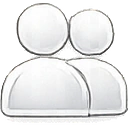
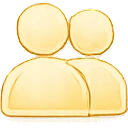
v2.9.2: bestaande potjes krijgen hun XP terug, en de balk wordt goud
De XP stond bij niemand in de historie, want hij wordt pas sinds v2.8.0 bewaard
en alle oudere potjes hadden nul. Die is exact terug te rekenen: de formule leest
alleen dingen die in de rij zelf staan, namelijk punten plus 40 als je won plus
15 voor het spelen. Elk potje levert dus minstens 15 op, en xp = 0 betekent
daarom "nooit ingevuld" en niet "niets verdiend"; die migratie loopt dus geen
tweede keer over dezelfde rij.

De MUNTEN blijven leeg voor oude potjes. Die volgen uit de levels die je met een
potje haalde en daar zit missie-XP in verwerkt, en wanneer die binnenkwam is niet
meer te achterhalen. Een gokje zou op de verkeerde rij landen, en een verkeerd
getal is erger dan geen getal.

De onderbalk: de winkel is weer een wagentje. In het vel zit er geen, dus dat is
de getekende versie, en die staat in DEZELFDE gouden reeks als de art. Daardoor
valt het verschil tussen tekening en art niet op: de kleur is wat ze bij elkaar
houdt. De beker en de mensen zijn van parelwit naar dat goud omgezet door hun
luminantie op die reeks te leggen, dus de vorm en het licht van de tekening
blijven staan en alleen het materiaal verandert. Kleur vervangen op TINT zou de
gouden accenten die er al in zaten juist wegpoetsen.

Alles is nu goud, dus de actieve staat is geen kleurwissel meer maar licht: de
rest zakt weg in de schaduw en de gekozen krijgt een halo. Pictogrammen een slag
kleiner.

diff --git a/frontend/src/components/BottomNav.tsx b/frontend/src/components/BottomNav.tsx
@@ -8,6 +8,7 @@
 import { useEffect, useRef, useState } from "react";
 import { Home, ShoppingCart, Trophy, UserRound, Users } from "lucide-react";
 import { Avatar } from "./Avatar";
+import { ShopIcon } from "./NavIcons";
 import type { GameApi } from "../net/socket";
 import { NeonLine } from "./NeonLine";
 import { useT } from "../i18n/i18n";
@@ -87,14 +88,18 @@ export function BottomNav({
     // vak goed zonder de rand te raken; op 0,4 stond het er verloren in. Tot de
     // plaat is gemeten tekenen we nog niets, anders springen ze een frame later.
     const s = Math.round(plateH * 0.5);
-    // De skin krijgt de art uit de UI-map. Het zijn parelwitte pictogrammen met
-    // gouden accenten; de actieve krijgt een gouden gloed en de rest staat
-    // gedempt. Kleur kan niet, want het is art en geen lijntekening, dus het
-    // verschil zit in helderheid en gloed.
+    // De skin krijgt de art uit de UI-map, omgezet naar het goud van de app: de
+    // vorm en het licht van de tekening blijven staan, alleen het materiaal is
+    // anders. Parelwit stond er los bij op een plaat die zelf al goud omrand is.
+    //
+    // Voor de winkel zit er geen wagentje in het vel, dus dat is de getekende
+    // versie. Die staat in dezelfde gouden reeks, en daardoor valt het verschil
+    // tussen tekening en art niet op: de KLEUR is wat ze bij elkaar houdt.
+    const maat = Math.round(s * 1.04);
     const art: Partial<Record<NavKey, (on: boolean) => React.ReactNode>> = {
-      shop: (on) => <NavArt src="/ui/nav/shop.webp" on={on} size={Math.round(s * 1.24)} />,
-      leaderboard: (on) => <NavArt src="/ui/nav/trophy.webp" on={on} size={Math.round(s * 1.24)} />,
-      friends: (on) => <NavArt src="/ui/nav/friends.webp" on={on} size={Math.round(s * 1.24)} />,
+      shop: (on) => <NavGloed on={on} size={maat}><ShopIcon on size={maat} /></NavGloed>,
+      leaderboard: (on) => <NavArt src="/ui/nav/trophy.webp" on={on} size={maat} />,
+      friends: (on) => <NavArt src="/ui/nav/friends.webp" on={on} size={maat} />,
     };
     return (
       <nav
@@ -233,36 +238,48 @@ export function BottomNav({
   );
 }
 
-/** Een pictogram uit de UI-map in de onderbalk.
+/** De gloed onder een gekozen pictogram in de onderbalk.
  *
- *  De art is parelwit met gouden accenten en die kleur staat vast, dus de
- *  actieve staat is geen kleurwissel maar LICHT: iets voller, iets warmer, met
- *  een gouden gloed eronder. De gloed is een tweede kopie erachter en geen
- *  drop-shadow, want die laat iOS de laag apart rasteren en dan zie je zijn
- *  rechthoek over het pictogram heen. */
-function NavArt({ src, on, size }: { src: string; on: boolean; size: number }) {
+ *  Alles is goud, dus de actieve staat is geen kleurwissel maar LICHT: de rest
+ *  zakt weg in de schaduw en de gekozen licht op. Hetzelfde materiaal, andere
+ *  belichting. */
+function NavGloed({ on, size, children }: { on: boolean; size: number; children: React.ReactNode }) {
   return (
-    <span style={{ position: "relative", width: size, height: size, display: "block" }}>
+    <span
+      style={{
+        position: "relative",
+        width: size,
+        height: size,
+        display: "grid",
+        placeItems: "center",
+        // Een halo achter het pictogram in plaats van een drop-shadow: die laat
+        // iOS de laag apart rasteren en dan zie je zijn rechthoek eroverheen.
+        filter: on ? "none" : "brightness(.62) saturate(.72)",
+      }}
+    >
       {on && (
-        <img
-          src={src}
-          alt=""
+        <span
           aria-hidden
-          style={{ position: "absolute", inset: 0, width: "100%", height: "100%", filter: "blur(5px) brightness(1.5) sepia(1) saturate(4) hue-rotate(-14deg)", opacity: 0.75 }}
+          style={{
+            position: "absolute",
+            inset: "12%",
+            borderRadius: "50%",
+            background: `radial-gradient(closest-side, ${withAlpha(colors.gold, 0.5)} 0%, ${withAlpha(colors.gold, 0.18)} 55%, transparent 100%)`,
+            filter: "blur(4px)",
+          }}
         />
       )}
-      <img
-        src={src}
-        alt=""
-        style={{
-          position: "relative",
-          width: "100%",
-          height: "100%",
-          display: "block",
-          filter: on ? "brightness(1.12) saturate(1.15)" : "brightness(.68) saturate(.7)",
-        }}
-      />
+      <span style={{ position: "relative", display: "grid", placeItems: "center" }}>{children}</span>
     </span>
+  );
+}
+
+/** Een pictogram uit de UI-map, in het goud van de app gezet. */
+function NavArt({ src, on, size }: { src: string; on: boolean; size: number }) {
+  return (
+    <NavGloed on={on} size={size}>
+      <img src={src} alt="" style={{ width: size, height: size, display: "block" }} />
+    </NavGloed>
   );
 }
 

diff --git a/frontend/src/version.ts b/frontend/src/version.ts
@@ -1,2 +1,2 @@
 // Bump per user-facing release. Shown in Settings > About.
-export const APP_VERSION = "2.9.1";
+export const APP_VERSION = "2.9.2";

diff --git a/backend/app/db.py b/backend/app/db.py
@@ -661,6 +661,24 @@ class Database:
             self._conn.execute("ALTER TABLE game_players ADD COLUMN coins INTEGER NOT NULL DEFAULT 0")
             self._conn.commit()
 
+        # Bestaande potjes alsnog hun XP geven. Die is exact terug te rekenen,
+        # want de formule leest alleen dingen die in de rij zelf staan: XP is
+        # punten plus 40 als je won plus 15 voor het spelen. Elk potje levert dus
+        # minstens 15 op, en xp = 0 betekent daarom "nooit ingevuld" en niet
+        # "niets verdiend". Vandaar dat dit geen tweede keer over dezelfde rij
+        # loopt.
+        #
+        # De MUNTEN blijven leeg. Die volgen uit de levels die je met een potje
+        # haalde, en daar zit ook missie-XP in verwerkt; wanneer die precies
+        # binnenkwam is niet meer te achterhalen. Een gokje zou op de verkeerde
+        # rij landen, en een verkeerd getal is erger dan geen getal.
+        gevuld = self._conn.execute(
+            "UPDATE game_players SET xp = score + 40 * is_winner + 15 WHERE xp = 0"
+        ).rowcount
+        if gevuld:
+            self._conn.commit()
+            print(f"historie: {gevuld} potjes met terugwerkende kracht hun XP gegeven")
+
     def _exec(self, sql: str, args: tuple = ()) -> sqlite3.Cursor:
         cur = self._conn.execute(sql, args)
         self._conn.commit()
